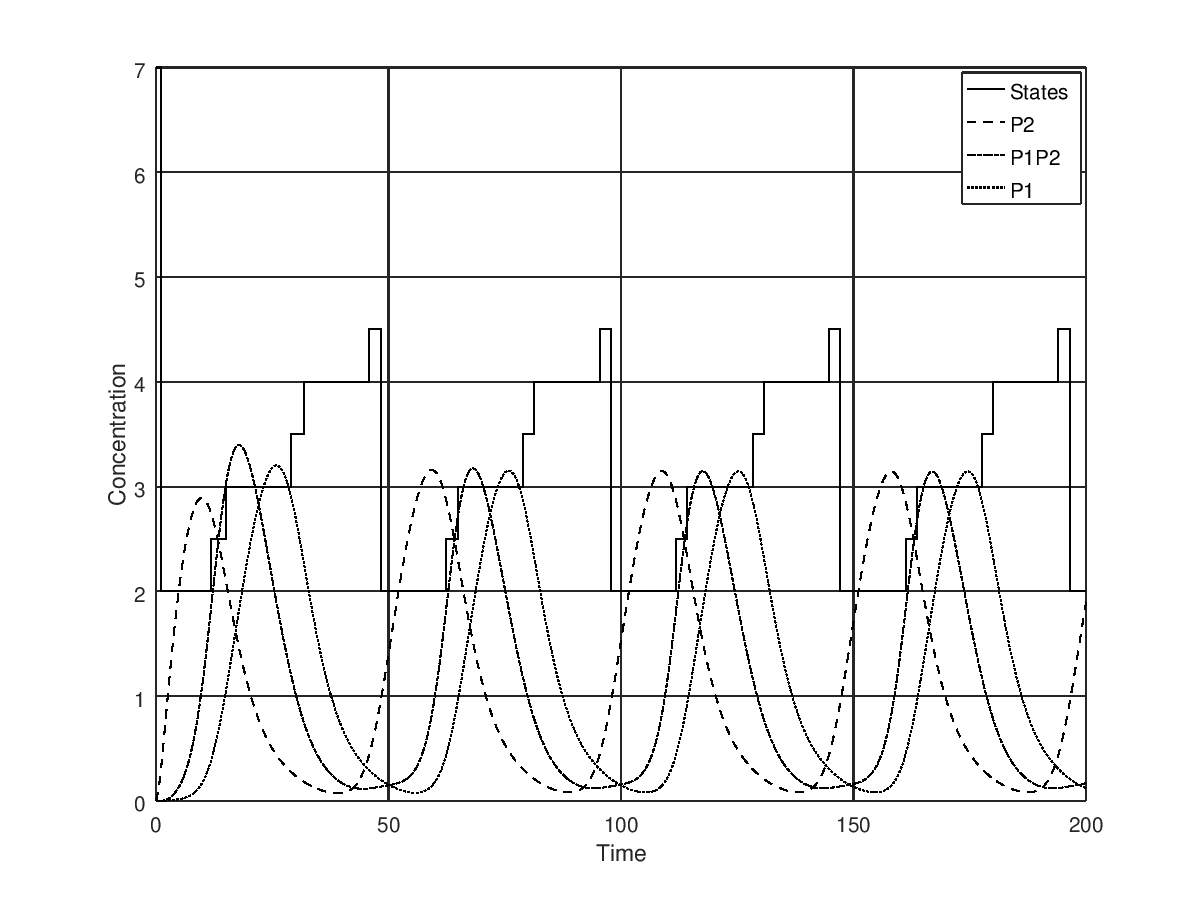
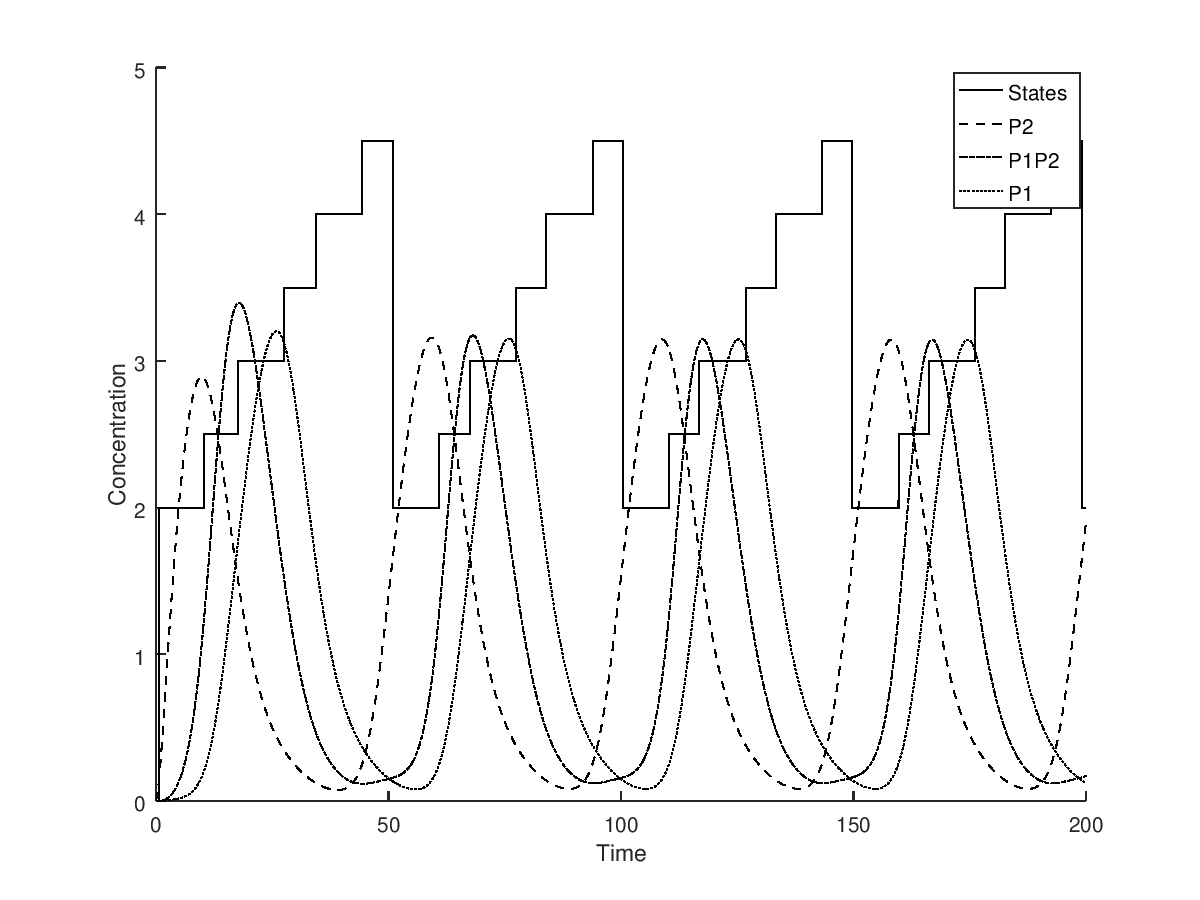
imagens

diff --git a/repressilator/repressilatorCounterPaper.m b/repressilator/repressilatorCounterPaper.m
@@ -29,6 +29,9 @@ p3s = zeros(1, length(t));
 % states
 s = zeros(1, length(t));
 
+%threshold
+lin = zeros(1, length(t));
+
 % concentracao de proteinas resultantes das ANDs ao passar do tempo
 cons1 = zeros(1, length(t)); cons2 = zeros(1, length(t));cons3 = zeros(1, length(t));
 cons4 = zeros(1, length(t));cons5 = zeros(1, length(t));cons6 = zeros(1, length(t)); 
@@ -80,7 +83,7 @@ for i = 1:length(t)
   p3s(i) = p3;
   
   if p1 > 15 && p2 > 15 && p3 > 15
-    s(i) = 8;
+    s(i) = 1;
   endif
   
   if p1 > 15 && p2 > 15 && p3 < 15
@@ -108,10 +111,12 @@ for i = 1:length(t)
   endif
   
   if p1 < 15 && p2 < 15 && p3 < 15
-    s(i) = 7;
+    s(i) = 0;
   endif
   
-div = (1 + (p3 / k3) + (p2 / k2) + (p1 / k1) + (p1 * p2 * p3 / (k1 * k2 * k3 * kq)) + (p1 * p2 / (k1 * k2 * kq)) + (p1 * p3 / (k1 * k3 * kq)) + (p2 * p3 / (k2 * k3 * kq))); 
+  lin(i) = 15;
+  
+  div = (1 + (p3 / k3) + (p2 / k2) + (p1 / k1) + (p1 * p2 * p3 / (k1 * k2 * k3 * kq)) + (p1 * p2 / (k1 * k2 * kq)) + (p1 * p3 / (k1 * k3 * kq)) + (p2 * p3 / (k2 * k3 * kq))); 
 
 %  ------2------
   dconsdt = alpha1 * (p2 / k2) / div; 
@@ -153,7 +158,7 @@ endfor
 
 figure;
 hold on;
-plot(t, p1s, '--k;P1;',  t, p2s, '-k;P2;',  t,  p3s,'.-k;P3;');
+plot(t, p1s, 'k;P1;',  t, p2s, '--k;P2;',  t,  p3s,':k;P3;', t, lin, 'k; Threshold;');
 xlabel('Time');
 ylabel('Concentration');
 
